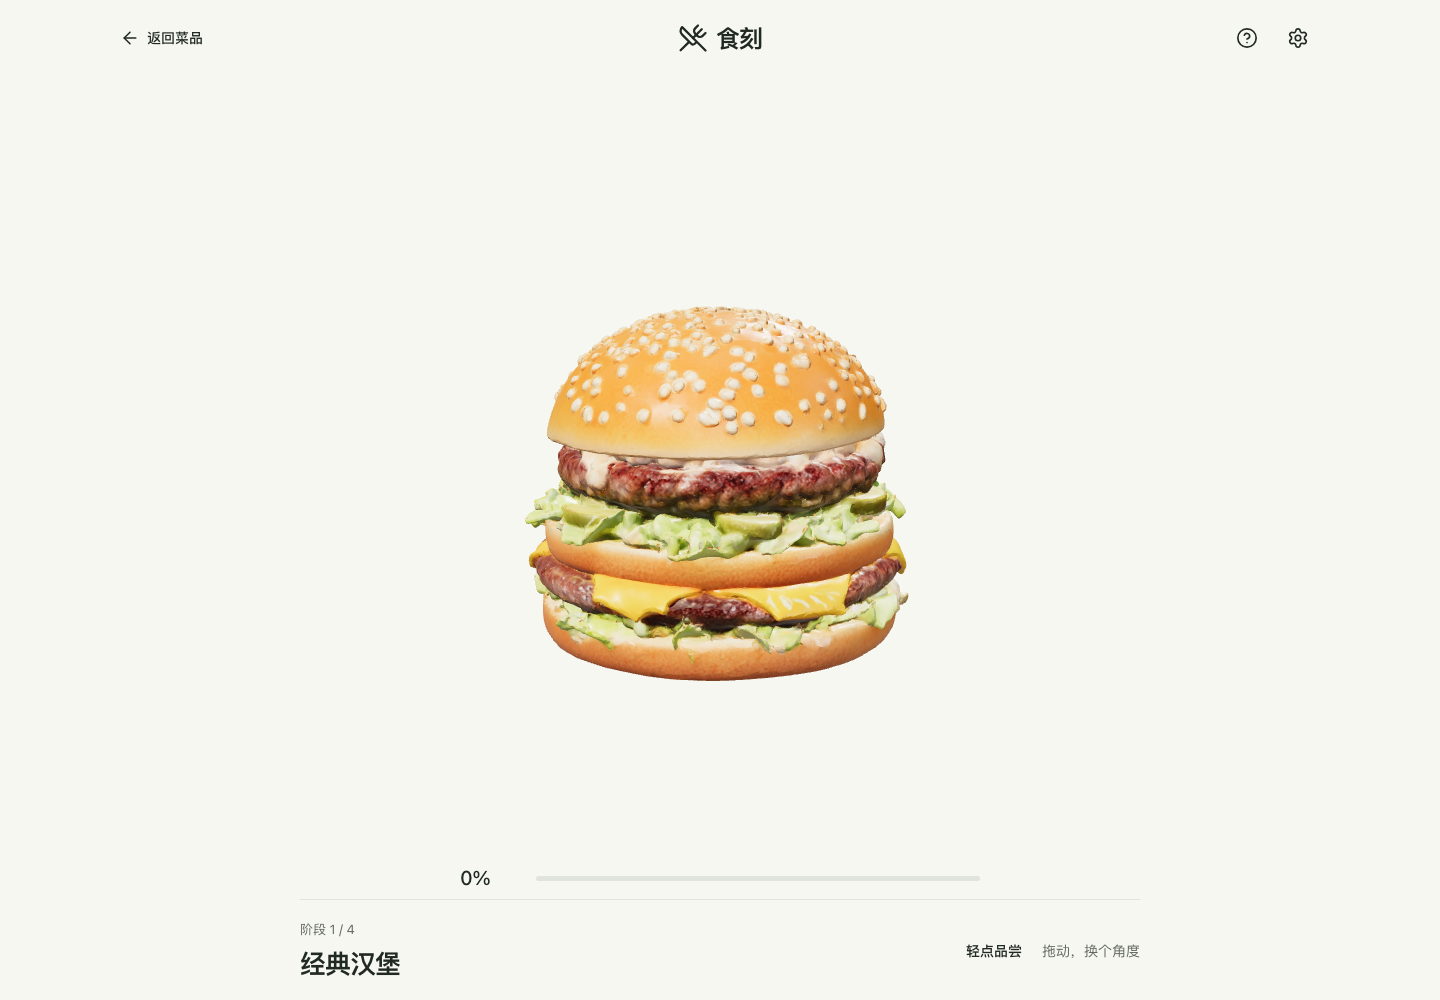
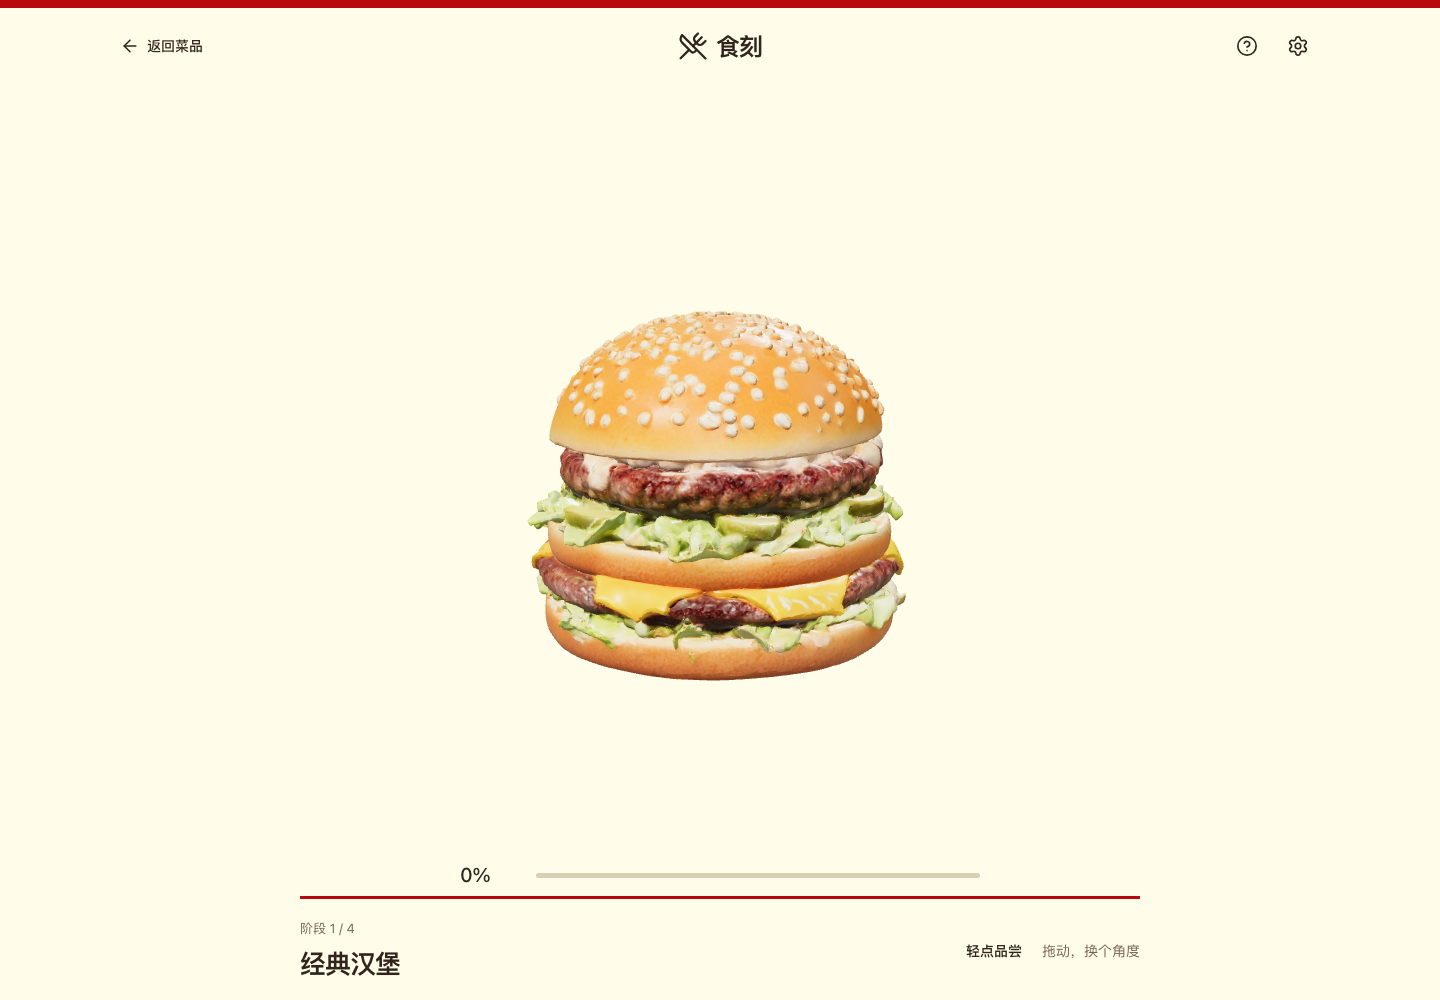
design: replace default UI with retro street food edition

diff --git a/src/ui/neighbor.css b/src/ui/neighbor.css
@@ -1,0 +1,109 @@
+/* 食刻 / 街角食堂 — separate edition, all rules scoped to its entry. */
+html.neighbor-edition {
+ --n-red:#b8090d;--n-paper:#fffde9;--n-ink:#30241c;--n-yellow:#ffc33c;--n-blue:#0033b8;--n-rule:#d9cfb4;
+ --refined-ground:var(--n-paper);--refined-surface:var(--n-paper);--refined-soft:#f5edce;--refined-ink:var(--n-ink);--refined-green:var(--n-red);--refined-muted:#776558;--refined-line:var(--n-rule);--refined-control:#a9987e;
+ background:var(--n-paper);color:var(--n-ink);
+}
+.neighbor-edition body{background:var(--n-paper)}
+.neighbor-edition :is(h1,h2,h3,.ordering-wordmark,.start-brand){font-family:'Arial Black','PingFang SC','Microsoft YaHei',sans-serif;font-weight:900!important;letter-spacing:-.035em}
+.neighbor-edition :is(button,a):focus-visible{outline:3px solid var(--n-blue);outline-offset:4px}
+/* The start screen behaves like a neighbourhood storefront. */
+.neighbor-edition .start-page{--start-bg:var(--n-red);--start-ink:var(--n-paper);--start-muted:var(--n-paper);--start-line:#d94c46;--start-green:var(--n-paper);background:var(--n-red);color:var(--n-paper);padding-inline:40px}
+.neighbor-edition .start-header{height:100px;color:var(--n-paper);border-bottom:2px solid var(--n-paper);max-width:1200px}
+.neighbor-edition .start-brand{font-size:48px;color:var(--n-paper);letter-spacing:-3px}
+.neighbor-edition .start-header>span:last-child{border:1px solid var(--n-paper);border-radius:50%;padding:7px 22px;font-size:13px}
+.neighbor-edition .start-content{max-width:1200px;width:100%;grid-template-columns:minmax(0,1.1fr) minmax(0,1fr);gap:64px;padding:40px 0}
+.neighbor-edition .start-art{min-height:440px;background:var(--n-yellow);border-radius:0;position:relative;transform:rotate(-3deg);border:10px solid var(--n-paper)}
+.neighbor-edition .start-art::before{content:'FRESH OFF THE MENU';position:absolute;top:18px;left:20px;right:20px;color:var(--n-red);font-weight:900;font-size:18px;text-align:center;border-block:2px solid var(--n-red);padding:8px 0;letter-spacing:.01em}
+.neighbor-edition .start-art::after{content:'食刻招牌 / CLASSIC BURGER';position:absolute;bottom:14px;left:0;right:0;color:var(--n-red);font-size:13px;font-weight:700;text-align:center}
+.neighbor-edition .start-art .ordering-cover{margin-top:30px;max-height:340px}
+.neighbor-edition .start-welcome h1{font-size:66px;line-height:1.13;color:var(--n-paper)}
+.neighbor-edition .start-welcome>p{color:var(--n-paper);font-size:17px}
+.neighbor-edition .start-choices{gap:0;border-top:2px solid var(--n-paper)}
+.neighbor-edition .start-choices button,.neighbor-edition .start-choices button+button{background:transparent;color:var(--n-paper);border:0;border-bottom:2px solid var(--n-paper);border-radius:0;min-height:92px;padding:15px 5px}
+.neighbor-edition .start-choices button:hover{background:#a0060b;filter:none}
+.neighbor-edition .start-choices strong{font-size:25px;font-weight:800}
+.neighbor-edition .start-welcome .start-disclaimer{font-size:12px;opacity:.8;max-width:38em}
+.neighbor-edition .start-footer{color:var(--n-paper);padding:18px 0 24px;border-top:6px double var(--n-paper);letter-spacing:.1em}
+/* Menu: red shop sign, cream menu, yellow product poster. */
+.neighbor-edition .ordering-app .ordering-topbar{width:100%;max-width:none;margin:0;padding-inline:max(24px,calc((100% - 1200px)/2));background:var(--n-red);height:84px;color:var(--n-paper);border:0}
+.neighbor-edition .ordering-app .ordering-wordmark{color:var(--n-paper);font-size:36px}
+.neighbor-edition .ordering-app :is(.ordering-brand-caption,.ordering-table){color:var(--n-paper)}
+.neighbor-edition .ordering-app .ordering-bag-top{border-color:var(--n-paper);color:var(--n-paper);border-radius:0}
+.neighbor-edition .ordering-app .ordering-bag-top b{background:var(--n-paper);color:var(--n-red)}
+.neighbor-edition .menu-mode-switch{border-color:#e9a7a0;color:var(--n-paper);border-radius:0}
+.neighbor-edition .ordering-app .ordering-menu-inner{padding-top:28px}
+.neighbor-edition .ordering-app .ordering-hero{padding-block:8px 24px;border-bottom:3px solid var(--n-red)}
+.neighbor-edition .ordering-app .ordering-hero h1{font-size:46px;color:var(--n-red);line-height:1.3;letter-spacing:-.04em}
+.neighbor-edition .ordering-app .ordering-categories{margin-block:0 22px;border-bottom:1px solid var(--n-rule);gap:30px}
+.neighbor-edition .ordering-app .ordering-categories button{font-size:15px;min-height:54px}
+.neighbor-edition .ordering-app .ordering-categories button[aria-pressed=true]{color:var(--n-red);border-color:var(--n-red);font-weight:800}
+.neighbor-edition .ordering-app .ordering-food-card{border:0;border-radius:0;border-bottom:1px solid var(--n-rule);background:transparent;overflow:hidden}
+.neighbor-edition .ordering-app .ordering-food-card.is-featured{background:var(--n-yellow);border:0;grid-template-columns:minmax(0,1.1fr) minmax(0,1fr)}
+.neighbor-edition .ordering-app .is-featured .ordering-food-art{background:var(--n-yellow);height:320px;position:relative}
+.neighbor-edition .ordering-app .is-featured .ordering-food-art::after{display:block;content:'THE HOUSE CLASSIC';position:absolute;left:22px;top:18px;border:1px solid var(--n-red);border-radius:50%;padding:6px 18px;font-size:12px;font-weight:800;color:var(--n-red);transform:rotate(-8deg)}
+.neighbor-edition .ordering-app .is-featured .menu-tasting-copy{padding:30px 36px}
+.neighbor-edition .ordering-app .is-featured .menu-tasting-copy h3{font-size:38px;color:var(--n-red)}
+.neighbor-edition .ordering-app .menu-tasting-copy>p{color:var(--n-ink);max-width:32em}
+.neighbor-edition .ordering-app .ordering-price{color:var(--n-red);font-weight:800;font-size:26px}
+.neighbor-edition .menu-tasting-actions .menu-taste-primary{background:var(--n-red);border-color:var(--n-red);color:var(--n-paper);border-radius:0;font-weight:700}
+.neighbor-edition .menu-tasting-actions .menu-spec-secondary{border-color:var(--n-red);color:var(--n-red);border-radius:0;background:transparent}
+.neighbor-edition .ordering-app .ordering-food-art.is-fries{background:#f6e9be}
+.neighbor-edition .ordering-app .ordering-food-art.is-soda{background:#d8ebea}
+.neighbor-edition .ordering-app .ordering-food-copy h3{font-size:23px}
+.neighbor-edition .ordering-app .ordering-card-action{background:var(--n-red);color:var(--n-paper);border-radius:50%}
+.neighbor-edition .ordering-app .ordering-menu-note{border-top:6px double var(--n-red);padding-block:20px;color:var(--n-red);font-weight:700}
+/* Shared ordering screens retain all established control geometry. */
+.neighbor-edition .ordering-app .ordering-detail-art{background:var(--n-yellow);border-radius:0}
+.neighbor-edition .ordering-app .ordering-detail-title{color:var(--n-red)}
+.neighbor-edition .ordering-app :is(.order-page,.ordering-detail-content){color:var(--n-ink)}
+.neighbor-edition .ordering-app .order-page>h1{font-size:34px;color:var(--n-red);padding-bottom:18px;border-bottom:3px solid var(--n-red)}
+.neighbor-edition .ordering-app :is(.ordering-add-button,.order-primary,.ordering-cart-dock button){background:var(--n-red);color:var(--n-paper);border-color:var(--n-red);border-radius:0}
+.neighbor-edition .ordering-app :is(.order-total strong,.order-dock-total strong){color:var(--n-red)}
+.neighbor-edition .ordering-app :is(.order-checkout-dock,.ordering-detail-dock){border-color:var(--n-red);background:var(--n-paper)}
+.neighbor-edition .ordering-app .cart-line-cover{background:#f5edce;border-radius:0}
+.neighbor-edition .ordering-app :is(.order-ticket,.order-table,.order-summary){border-radius:0;background:transparent}
+.neighbor-edition .ordering-app .order-success{background:var(--n-red);color:var(--n-paper)}
+.neighbor-edition .ordering-app input:checked+span{border-color:var(--n-red);color:var(--n-red);background:#fff4dd}
+/* Food stays in a quiet studio; the red frame identifies the edition. */
+.neighbor-edition .experience.experience{background:var(--n-paper);border-top:8px solid var(--n-red)}
+.neighbor-edition .experience.experience .stage{background:transparent}
+.neighbor-edition .experience.experience .food-title{color:var(--n-red);font-weight:900}
+.neighbor-edition .experience.experience .action-dock{border-top:3px solid var(--n-red);border-radius:0;background:var(--n-paper)}
+.neighbor-edition .experience.experience .progress-fill{background:var(--n-red)}
+@media(max-width:760px){
+ .neighbor-edition .start-page{padding-inline:22px}.neighbor-edition .start-header{height:76px}.neighbor-edition .start-brand{font-size:36px}.neighbor-edition .start-header>span:last-child{padding:5px 12px;font-size:11px}
+ .neighbor-edition .start-content{display:flex;gap:24px;padding:26px 0}.neighbor-edition .start-art{width:calc(100% - 16px);height:230px;min-height:230px;border-width:7px;transform:rotate(-2deg)}.neighbor-edition .start-art::before{font-size:13px;top:10px;padding:5px}.neighbor-edition .start-art::after{font-size:10px;bottom:8px}.neighbor-edition .start-art .ordering-cover{height:190px;margin-top:24px}.neighbor-edition .start-welcome h1{font-size:38px}.neighbor-edition .start-welcome h1 br{display:none}.neighbor-edition .start-welcome>p{font-size:14px;margin:12px 0 20px}.neighbor-edition .start-choices button{min-height:82px}.neighbor-edition .start-choices strong{font-size:23px}.neighbor-edition .start-welcome .start-disclaimer{font-size:11px}.neighbor-edition .start-footer{font-size:11px;padding-block:16px}
+ .neighbor-edition .ordering-app .ordering-topbar{height:74px;padding-inline:18px}.neighbor-edition .ordering-app .ordering-wordmark{font-size:30px}.neighbor-edition .ordering-app .ordering-hero h1{font-size:29px;letter-spacing:-.04em}.neighbor-edition .ordering-app .ordering-hero{padding-block:4px 20px}.neighbor-edition .ordering-app .ordering-menu-inner{padding-top:20px}
+ .neighbor-edition .ordering-app .ordering-categories{gap:24px;margin-bottom:16px}.neighbor-edition .ordering-app .ordering-categories button{font-size:14px;min-height:48px}
+ .neighbor-edition .ordering-app .is-featured .ordering-food-art{height:210px;min-height:210px}.neighbor-edition .ordering-app .is-featured .ordering-food-art::after{top:12px;left:14px;font-size:10px;padding:4px 10px}.neighbor-edition .ordering-app .is-featured .menu-tasting-copy{padding:10px 20px 22px}.neighbor-edition .ordering-app .is-featured .menu-tasting-copy h3{font-size:29px}.neighbor-edition .ordering-app .ordering-food-copy h3{font-size:21px}.neighbor-edition .ordering-app .order-page>h1{font-size:28px}
+}
+
+/* Street-print revision: worn display type and the food symbol family. */
+.neighbor-edition :is(.start-brand,.start-welcome h1,.ordering-wordmark,.menu-brand-headline,.menu-tasting-copy h3){
+ font-weight:900; -webkit-text-stroke:.6px currentColor;
+ -webkit-mask-image:url('/neighbor/worn-mask.svg');mask-image:url('/neighbor/worn-mask.svg');
+ -webkit-mask-size:460px 92px;mask-size:460px 92px;mask-repeat:repeat;
+}
+.neighbor-edition .start-art{background:var(--n-blue);border:8px solid var(--n-paper);transform:rotate(-3deg)}
+.neighbor-edition .start-art::before,.neighbor-edition .start-art::after{color:var(--n-paper);border-color:var(--n-paper)}
+.neighbor-edition .start-art .ordering-cover img,.neighbor-edition .is-featured .ordering-food-art .ordering-cover img,.neighbor-edition .ordering-detail-art .ordering-cover img[src*="burger"]{content:url('/neighbor/burger.svg')}
+.neighbor-edition .ordering-cover img[src*="rosemary-fries"]{content:url('/neighbor/fries.svg')}
+.neighbor-edition .ordering-cover img[src*="lemon-soda"]{content:url('/neighbor/soda.svg')}
+.neighbor-edition .ordering-app .is-featured .ordering-food-art{background:var(--n-blue)}
+.neighbor-edition .ordering-app .is-featured .ordering-food-art::after{border:2px solid var(--n-paper);color:var(--n-paper);transform:rotate(-7deg);font-size:11px;font-weight:900}
+.neighbor-edition .ordering-app .ordering-food-art.is-fries{background:var(--n-red)}
+.neighbor-edition .ordering-app .ordering-food-art.is-soda{background:var(--n-blue)}
+.neighbor-edition .ordering-app .ordering-detail-art{background:var(--n-blue)}
+.neighbor-edition .ordering-app .ordering-categories button[aria-pressed=true]{color:var(--n-blue);border-color:var(--n-blue)}
+.neighbor-edition .start-choices{border-top:0;gap:12px}
+.neighbor-edition .start-choices button{background:var(--n-yellow);color:var(--n-red);padding:17px 20px;border:3px solid var(--n-paper);transform:rotate(-1deg)}
+.neighbor-edition .start-choices button+button{background:var(--n-blue);color:var(--n-paper);padding:17px 20px;border:3px solid var(--n-paper);transform:rotate(1deg)}
+.neighbor-edition .start-choices button:hover{background:var(--n-paper);color:var(--n-red)}
+.neighbor-edition .start-choices button>svg:first-child{width:38px;height:38px;stroke-width:2.5}
+.neighbor-edition .start-choices strong{font-weight:900;letter-spacing:-.03em}
+.neighbor-edition .start-footer{border-top:0;position:relative;padding-top:22px}
+.neighbor-edition .start-footer::before{content:'';position:absolute;inset:0 0 auto;height:10px;background:linear-gradient(to bottom,var(--n-blue) 0 35%,var(--n-yellow) 35% 70%,var(--n-paper) 70%)}
+.neighbor-edition .ordering-app .ordering-hero{border-bottom:4px solid var(--n-blue)}
+.neighbor-edition .ordering-app .ordering-menu-note{border-color:var(--n-blue);color:var(--n-blue)}
+@media(max-width:760px){.neighbor-edition .start-art{height:230px}.neighbor-edition .start-welcome h1{font-size:38px}.neighbor-edition .start-choices button,.neighbor-edition .start-choices button+button{min-height:84px;padding:13px 17px}.neighbor-edition .ordering-app .menu-tasting-copy h3{font-size:29px}}

diff --git a/public/preview-neighbor/index.html b/public/preview-neighbor/index.html
@@ -1,0 +1,1 @@
+<!doctype html><html lang="zh-CN"><meta charset="utf-8"><meta name="viewport" content="width=device-width,initial-scale=1"><title>食刻街角食堂版预览</title><style>body{margin:0;background:#fffde9;color:#b8090d;font:16px/1.6 system-ui}header,main{max-width:1500px;margin:auto;padding:24px}h1{font-size:30px;margin:0}nav{display:flex;gap:18px;flex-wrap:wrap;margin-top:16px}a{color:#385736}section{margin:28px 0 60px}h2{font-size:23px}.pair{display:grid;grid-template-columns:390px minmax(0,1fr);gap:24px;align-items:start}img{max-width:100%;display:block;border:1px solid #cdd0c4}p{color:#53644b}@media(max-width:800px){.pair{grid-template-columns:1fr}header,main{padding:18px}}</style><header><h1>食刻 · 街角食堂版</h1><p>手机与桌面页面汇总。截图展示示例点单数据。</p><a href="/neighbor.html?table=A01">打开可交互版本</a><nav><a href="#start">开始页</a><a href="#menu">菜单</a><a href="#detail">菜品详情</a><a href="#tasting">虚拟试吃</a><a href="#cart">购物车</a><a href="#review">确认订单</a><a href="#result">订单结果</a></nav></header><main><section id="start"><h2>开始页</h2><div class="pair"><a href="mobile-start.png" target="_blank"><img src="mobile-start.png" alt="开始页手机预览"></a><a href="desktop-start.png" target="_blank"><img src="desktop-start.png" alt="开始页桌面预览"></a></div></section><section id="menu"><h2>菜单</h2><div class="pair"><a href="mobile-menu.png" target="_blank"><img src="mobile-menu.png" alt="菜单手机预览"></a><a href="desktop-menu.png" target="_blank"><img src="desktop-menu.png" alt="菜单桌面预览"></a></div></section><section id="detail"><h2>菜品详情</h2><div class="pair"><a href="mobile-detail.png" target="_blank"><img src="mobile-detail.png" alt="菜品详情手机预览"></a><a href="desktop-detail.png" target="_blank"><img src="desktop-detail.png" alt="菜品详情桌面预览"></a></div></section><section id="tasting"><h2>虚拟试吃</h2><div class="pair"><a href="mobile-tasting.png" target="_blank"><img src="mobile-tasting.png" alt="虚拟试吃手机预览"></a><a href="desktop-tasting.png" target="_blank"><img src="desktop-tasting.png" alt="虚拟试吃桌面预览"></a></div></section><section id="cart"><h2>购物车</h2><div class="pair"><a href="mobile-cart.png" target="_blank"><img src="mobile-cart.png" alt="购物车手机预览"></a><a href="desktop-cart.png" target="_blank"><img src="desktop-cart.png" alt="购物车桌面预览"></a></div></section><section id="review"><h2>确认订单</h2><div class="pair"><a href="mobile-review.png" target="_blank"><img src="mobile-review.png" alt="确认订单手机预览"></a><a href="desktop-review.png" target="_blank"><img src="desktop-review.png" alt="确认订单桌面预览"></a></div></section><section id="result"><h2>订单结果</h2><div class="pair"><a href="mobile-result.png" target="_blank"><img src="mobile-result.png" alt="订单结果手机预览"></a><a href="desktop-result.png" target="_blank"><img src="desktop-result.png" alt="订单结果桌面预览"></a></div></section></main></html>

diff --git a/neighbor.html b/neighbor.html
@@ -1,0 +1,2 @@
+<!doctype html>
+<html lang="zh-CN" class="neighbor-edition"><head><meta charset="UTF-8" /><meta name="viewport" content="width=device-width,initial-scale=1.0" /><meta name="theme-color" content="#b8090d" /><title>食刻 · 街角食堂版</title></head><body><div id="root"></div><script type="module" src="/src/neighbor-main.tsx"></script></body></html>

diff --git a/vite.config.ts b/vite.config.ts
@@ -3,6 +3,7 @@ import { defineConfig } from 'vitest/config';
 
 export default defineConfig({
   plugins: [react()],
+  build: { rollupOptions: { input: { main: 'index.html', neighbor: 'neighbor.html' } } },
   server: { watch: { ignored: ['**/*.tmpdir/**'] } },
   test: {
     environment: 'node',

diff --git a/src/main.tsx b/src/main.tsx
@@ -1,5 +1,8 @@
 import { createRoot } from 'react-dom/client';
 import App from './App';
 import './style.css';
+import './ui/neighbor.css';
+
+document.documentElement.classList.add('neighbor-edition');
 
 createRoot(document.getElementById('root')!).render(<App />);

diff --git a/src/neighbor-main.tsx b/src/neighbor-main.tsx
@@ -1,0 +1,5 @@
+import { createRoot } from 'react-dom/client';
+import App from './App';
+import './style.css';
+import './ui/neighbor.css';
+createRoot(document.getElementById('root')!).render(<App />);
